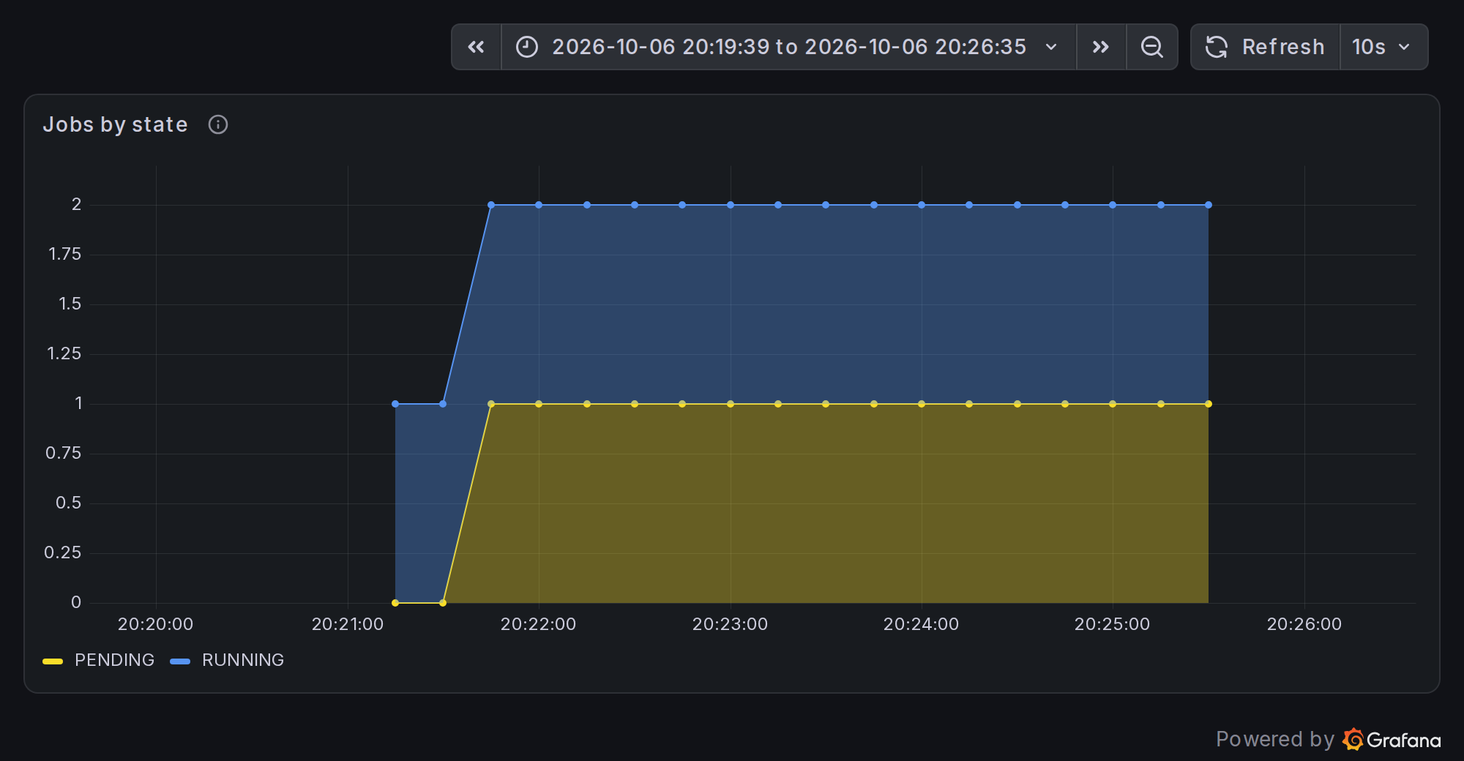
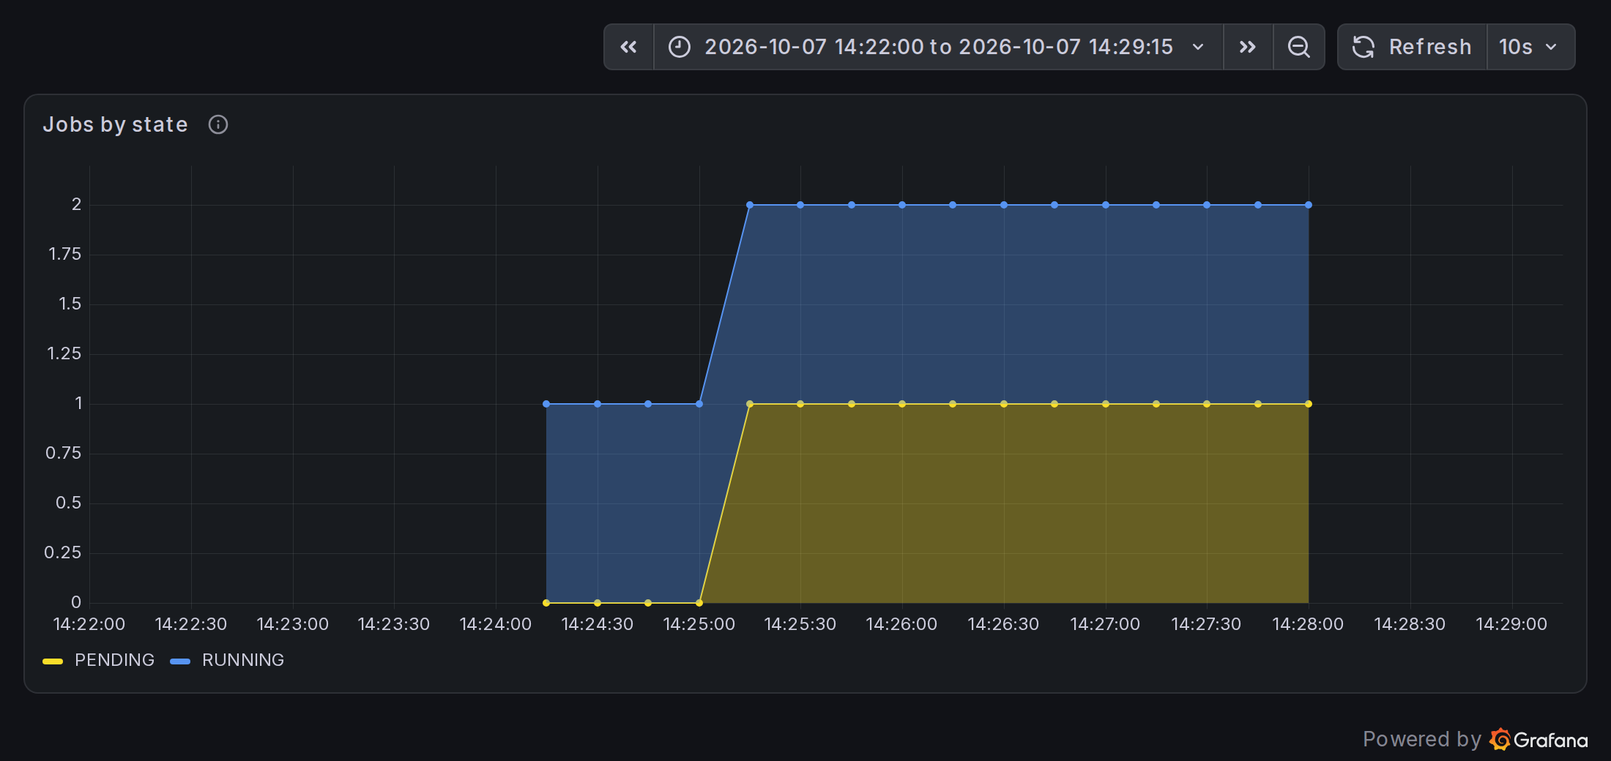
AI lab Parts 1, 2, 4, 5, 6: recaptured with per-precision GEMM rates
The lab now times GEMMs at NVIDIA's dense rate per precision (ai-lab
680c432). The DDP example's step is dominated by NCCL, so the figures
move only slightly:
- Part 1: timing sentence matches the README; split run 2:39 vs 1:19
- Part 2: DDP job, sacct, nvidia-smi, PromQL and both screenshots
  from one run (60,000 steps in 4:22)
- Part 4: GPU sensors during that run
- Part 5: one partition vs split (4.2 vs 9.5 ms/step), traffic
  figures and the NVLink vs InfiniBand panel
- Part 6: recaptured in Slurm mode: drain instead of cordon, Slurm's
  not-responding state, GPUs total from the partition, epilog reset
  dropping temperature to idle

diff --git a/content/ai-lab/06-observability/index.md b/content/ai-lab/06-observability/index.md
@@ -19,7 +19,7 @@ local_image = "ai-lab/06-observability/card.png"
 
 ## Overview
 
-The earlier parts each peeked at a metric or two. This one is about monitoring as a whole: which layers of a GPU cluster need watching, what each layer's signals mean, and how to read the lab's Grafana dashboards. The screenshots come from one scripted 10-minute run on the lab in Kubernetes mode. The dashboards are identical in Slurm mode.
+The earlier parts each peeked at a metric or two. This one is about monitoring as a whole: which layers of a GPU cluster need watching, what each layer's signals mean, and how to read the lab's Grafana dashboards. The screenshots come from one scripted 11-minute run on the lab in Slurm mode. The dashboards are identical in Kubernetes mode.
 
 {% <admonition type="note" title="The numbers are simulated"> %}
 The GPU utilisation, power and temperature in this post are modelled, and the NVLink and InfiniBand bytes are counted, not sent. The values follow the load, which is enough to build dashboards, alerts and runbooks on, but they say nothing about how a real GB200 performs.
@@ -52,7 +52,6 @@ gpu	sched-worker1:9835	up
 gpu	sched-worker2:9835	up
 juicefs	sched-control:9567	up
 …
-kube-state-metrics	sched-control:30808	up
 node	sched-control:9100	up
 …
 nvlink	sched-nvswitch:9372	up
@@ -60,6 +59,7 @@ prometheus	localhost:9090	up
 redfish	sched-nvswitch-bmc	up
 redfish	sched-worker1-bmc	up
 redfish	sched-worker2-bmc	up
+slurm	localhost:9092	up
 ```
 
 Slurm and Kubernetes export completely different metrics, so recording rules turn either one into the same handful of series: `sched_gpus`, `sched_gpus_alloc`, `sched_node_gpus_alloc`, `sched_user_gpus`, `sched_jobs{state}` and `sched_nodes{state}`. The dashboards use only those, which is why they work with either scheduler.
@@ -72,25 +72,26 @@ The out-of-band layer polls the BMCs, not the trays, through a generic Redfish e
 
 All the screenshots show the same window, in Grafana's local time:
 
-- **22:10:24** idle (the tail at the very left edge of some panels is the end of an earlier test job)
-- **22:11:24** 8-GPU PyTorch DDP job submitted (2 pods × 4 GPUs, 60,000 steps)
-- **22:12:24** `nvl8-hello` (8 GPUs) submitted; Kueue queues it, since no GPUs are free
-- **22:13:25** NVSwitch_0 port 19 disabled through the switch BMC (`sched-worker1` GPU 2, link 2)
-- **22:14:25** port re-enabled
-- **22:15:54** DDP finishes on both trays; `nvl8-hello` runs for a few seconds
-- **22:17:00** `sched-worker2` cordoned, then powered off through its BMC (`ForceOff`)
-- **22:19:01** powered on through its BMC; Ready and uncordoned at 22:19:07
-- **22:20:37** idle again
+- **14:22:27** idle (the tail at the very left edge of some panels is the end of an earlier test job)
+- **14:23:27** 8-GPU PyTorch DDP job submitted (2 nodes × 4 GPUs, 60,000 steps)
+- **14:24:27** `nvl8-hello` (8 GPUs) submitted; Slurm queues it, since no GPUs are free
+- **14:25:28** NVSwitch_0 port 19 disabled through the switch BMC (`sched-worker1` GPU 2, link 2)
+- **14:26:28** port re-enabled
+- **14:27:50** DDP finishes on both trays; `nvl8-hello` runs for a second
+- **14:28:50** `sched-worker2` drained
+- **14:29:20** `sched-worker2` powered off through its BMC (`ForceOff`)
+- **14:31:21** powered on through its BMC, and resumed in Slurm at 14:31:24
+- **14:33:00** idle again
 
 ## Reading the GPU layer
 
 {{< figure src="lab-overview.png" caption="Lab overview dashboard during the scenario" />}}
 
-**GPU utilisation** is the share of time a kernel was running on the GPU. It isn't a measure of how efficiently the GPU was used. All eight lines jump from 0 to 88-89 % together, stay flat, and drop together when the job ends. That's what healthy data-parallel training looks like: every rank does the same work at the same pace. A line or a group of lines sagging below the pack points to a **straggler**: a slow GPU, a degraded link, or a tray with CPU-side contention. On real hardware NCCL's collectives make every rank wait for the slowest one, so a straggler drags the whole job down while its own GPU looks the least busy. So compare GPUs against each other, not only against a threshold.
+**GPU utilisation** is the share of time a kernel was running on the GPU. It isn't a measure of how efficiently the GPU was used. All eight lines jump from 0 to 86-88 % together, stay flat, and drop together when the job ends. That's what healthy data-parallel training looks like: every rank does the same work at the same pace. A line or a group of lines sagging below the pack points to a **straggler**: a slow GPU, a degraded link, or a tray with CPU-side contention. On real hardware NCCL's collectives make every rank wait for the slowest one, so a straggler drags the whole job down while its own GPU looks the least busy. So compare GPUs against each other, not only against a threshold.
 
-**GPU power** follows utilisation, from about 140 W at idle to 890-910 W per GPU under load. **NVL8 domain power** is the sum: 1.12 kW idle, about 7.2 kW with all eight GPUs working, and 0.56 kW while `sched-worker2` is powered off, because a tray that's off draws nothing. Domain power is the number facilities and capacity planning care about.
+**GPU power** follows utilisation, from about 140 W at idle to 870-900 W per GPU under load. **NVL8 domain power** is the sum: 1.12 kW idle, about 7.1 kW with all eight GPUs working, and 0.56 kW while `sched-worker2` is powered off, because a tray that's off draws nothing. Domain power is the number facilities and capacity planning care about.
 
-**GPU temperature** moves on its own, slower clock: power steps up within one scrape, temperature climbs over about a minute to 70 °C and cools gradually after the job ends. That thermal lag is why a temperature alert needs a `for:` duration, and why a GPU that's hot *right after* a job isn't a problem.
+**GPU temperature** moves on its own, slower clock: power steps up within one scrape, temperature climbs over about a minute to 70 °C. After the job it drops straight back to idle, because Slurm's epilog resets the GPUs ([Part 8](@/ai-lab/08-gpu-handover/index.md)); without a reset, as in Kubernetes mode ([Part 3](@/ai-lab/03-kubernetes/index.md)), it cools over about a minute. That thermal lag is why a temperature alert needs a `for:` duration, and why a GPU that's hot *right after* a job isn't a problem.
 
 **GPU memory used** jumps to about 7 GiB per GPU when the model and optimizer state are allocated, then stays flat: DDP keeps a full copy of the model on every GPU. A line that keeps climbing during training is a leak, and a line close to the 185 GiB capacity is an out-of-memory crash waiting to happen. **Processes on GPUs** shows 4 per tray, one `torchrun` worker per GPU, and drops to 0 when the job ends. Memory or processes that outlive the job mean a leftover process is holding the GPU, and the next job to land there will start with less than it asked for.
 
@@ -100,15 +101,14 @@ The bottom of the same dashboard puts the BMC's view next to the tray's own:
 
 {{< figure src="panel-tray-power-state.png" caption="Tray power state panel: BMCs vs GPU exporters" />}}
 
-Each row is a state timeline: green when the series is 1, red when it's 0. When `sched-worker2` was powered off at 22:17:00, the signals changed in this order:
+Each row is a state timeline: green when the series is 1, red when it's 0. When `sched-worker2` was powered off at 14:29:20, the signals changed in this order:
 
-- **22:17:04** `up{job="gpu"}` for `sched-worker2` drops to 0: the GPU exporter on the tray is scraped every 5 s.
-- **22:17:21** `idrac_system_power_on` for `sched-worker2` drops to 0: the BMC is polled every 30 s.
-- **22:17:59** the node turns `NotReady` in Kubernetes: the node controller waits for missed heartbeats.
-- **22:19:01** powered on.
-- **22:19:04** the GPU exporter is up.
-- **22:19:14** the node is Ready.
-- **22:19:21** the BMC reports power on, at its next 30 s poll.
+- **14:29:24** `up{job="gpu"}` for `sched-worker2` drops to 0: the GPU exporter on the tray is scraped every 5 s.
+- **14:29:51** `idrac_system_power_on` for `sched-worker2` drops to 0: the BMC is polled every 30 s.
+- **14:30:10** Slurm marks the node as not responding: `sinfo` shows `drained*`, where the `*` means the controller can't reach the node's `slurmd`.
+- **14:31:21** powered on.
+- **14:31:24** the GPU exporter is up, and `slurmd` registers again. The node stays drained until it's resumed.
+- **14:31:51** the BMC reports power on, at its next 30 s poll.
 
 The `sched-worker2 BMC` row stays green the whole time: the BMC kept answering while the tray it manages was off. Three cases that look the same from the GPU exporter alone can now be told apart:
 
@@ -128,7 +128,7 @@ The lab's BMCs read the GPUs' state the way a real BMC reads them over its sideb
 
 The top row compares supply with demand. The sparklines under **GPUs allocated**, **Running jobs** and **Pending jobs** show the history behind the current value of 0: allocation stays at 8 while the DDP job runs, and *Pending jobs* rises while `nvl8-hello` waits. Allocated close to total with jobs pending means the cluster is full, which is a capacity signal. Allocated below total with jobs pending means the jobs don't fit, either because of topology or quotas ([Part 3](@/ai-lab/03-kubernetes/index.md#operations)) or because a node is out.
 
-**GPUs total** is easy to misread. It stayed at 8 while `sched-worker2` was off: Kubernetes keeps reporting a NotReady node's allocatable GPUs, so the capacity series only dipped to 4 for a moment as the tray came back (22:19:19-22:19:34). Read *GPUs total* together with **Nodes by state**, where the NOT_READY band (22:18:00-22:19:15) shows the tray was gone.
+**GPUs total** is easy to misread. It stayed at 8 while `sched-worker2` was drained and powered off, because it counts the GPUs configured in the Slurm partition, whatever state their nodes are in. Read *GPUs total* together with **Nodes by state**, which uses Slurm's state names: `sched-worker2` moves from `idle` to `drain` (14:29:34) and to `drain*` (14:30:34-14:32:04) while the tray is off. The Slurm exporter is scraped every 30 s, so these times trail the ones from `sinfo` above.
 
 **GPUs allocated per node**, **Jobs by state** and **Nodes by state** are stacked: each series is drawn on top of the previous one, so the top edge is the total and each band is one series' share. *GPUs allocated per node* reaches 8 as two bands of 4, and the top line isn't `sched-worker2` holding 8 GPUs. *Jobs by state* leaves out completed jobs, whose ever-growing count would flatten everything else: the DDP job runs (blue), and `nvl8-hello` sits underneath as pending (yellow) until the DDP job is done. Check whether a panel is stacked before you read a value off it.
 
@@ -140,7 +140,7 @@ The **NVLink fabric** row turns Part 4's experiment into graphs. While the switc
 
 Utilisation didn't move when the link went down. In the lab, the emulated NCCL doesn't slow a rank down for a lost link; it only slows down when traffic has to cross NVLink partitions ([Part 5](@/ai-lab/05-nvlink/index.md)). On real hardware it may, and a rank missing 1 of 18 links is exactly the kind of fault you only catch by watching the fabric layer.
 
-**NVLink TX per GPU** shows the all-reduce traffic: about 445 GB/s per GPU, the same on both trays. **NVSwitch throughput** shows the same traffic from the switch side, about 1.77-1.79 TB/s per chip. **GPUs per NVLink partition** stays at 8 in the default partition; a split like the one in Part 5 would show up there as two lines.
+**NVLink TX per GPU** shows the all-reduce traffic: about 450 GB/s per GPU, the same on both trays. **NVSwitch throughput** shows the same traffic from the switch side, about 1.79-1.80 TB/s per chip. **GPUs per NVLink partition** stays at 8 in the default partition; a split like the one in Part 5 would show up there as two lines.
 
 The **InfiniBand** row at the bottom shows NCCL traffic that has to leave NVLink: **InfiniBand TX per tray**, and **NVLink vs InfiniBand** for the whole domain. In this run all eight GPUs are in one partition, so InfiniBand stays at 0 and all the traffic is on NVLink. A job split across NVLink partitions would move part of it to InfiniBand ([Part 5](@/ai-lab/05-nvlink/index.md)).
 

diff --git a/content/ai-lab/05-nvlink/index.md b/content/ai-lab/05-nvlink/index.md
@@ -216,9 +216,9 @@ Each block is named after the cluster UUID and clique it was built from. In Kube
 You might expect `nvl8-hello` (2 nodes × 4 GPUs) to wait now. It doesn't:
 
 ```console
-$ sbatch --wait nvl8-hello.sbatch && cat nvl8-hello-7.out
-Submitted batch job 7
-job 7 on sched-worker[1-2]: 8 tasks
+$ sbatch --wait nvl8-hello.sbatch && cat nvl8-hello-15.out
+Submitted batch job 15
+job 15 on sched-worker[1-2]: 8 tasks
 0: rank 0 on sched-worker1 CUDA_VISIBLE_DEVICES=0: NVIDIA GB200, GPU-81501924-f170-f6d0-f2da-dc7595876881, 1, scratch  198G
 …
 4: rank 4 on sched-worker2 CUDA_VISIBLE_DEVICES=0: NVIDIA GB200, GPU-81477906-d580-de42-e868-ff62e9ef4317, 7, scratch  198G
@@ -230,20 +230,20 @@ Ranks 0-3 are in clique 1 and ranks 4-7 in clique 7. Slurm's `topology/block` *p
 The job runs, but it's slower. The two halves can't reach each other over NVLink, so NCCL sends the traffic between them over InfiniBand, which is much slower: each GPU has a 400 Gb/s (50 GB/s) InfiniBand link, against hundreds of GB/s over NVLink. The lab's emulated NCCL does the same: inside each partition it uses NVLink, and between partitions it uses InfiniBand. Here is the same DDP job, 16,000 steps, first on one partition, then split across two:
 
 ```console
-$ grep -E "^step +(10|50|16000) |rank 0/" ddp-train-6.out
-step   10      4.3 ms    119665 samples/s      48 TFLOP/s/GPU
-step   50      4.1 ms    125795 samples/s      51 TFLOP/s/GPU
-step 16000      4.4 ms    115490 samples/s      47 TFLOP/s/GPU
+$ grep -E "^step +(10|50|16000) |rank 0/" ddp-train-13.out
+step   10      4.4 ms    116271 samples/s      47 TFLOP/s/GPU
+step   50      4.1 ms    124550 samples/s      50 TFLOP/s/GPU
+step 16000      4.2 ms    122161 samples/s      49 TFLOP/s/GPU
 rank 0/8 on sched-worker1 cuda:0 (NVIDIA GB200) peak mem 7.1 GiB
 
-$ grep -E "^step +(10|50|16000) |rank 0/" ddp-train-8.out
-step   10      9.8 ms     52224 samples/s      21 TFLOP/s/GPU
-step   50      9.3 ms     55250 samples/s      22 TFLOP/s/GPU
-step 16000      9.8 ms     52000 samples/s      21 TFLOP/s/GPU
+$ grep -E "^step +(10|50|16000) |rank 0/" ddp-train-17.out
+step   10      9.5 ms     53919 samples/s      22 TFLOP/s/GPU
+step   50      9.2 ms     55357 samples/s      22 TFLOP/s/GPU
+step 16000      9.5 ms     54175 samples/s      22 TFLOP/s/GPU
 rank 0/8 on sched-worker1 cuda:0 (NVIDIA GB200) peak mem 7.1 GiB
 ```
 
-Steps take more than twice as long, and the whole job took 2:39 instead of 1:17. During the split run, Prometheus showed the traffic moving to InfiniBand:
+Steps take more than twice as long, and the whole job took 2:39 instead of 1:19. During the split run, Prometheus showed the traffic moving to InfiniBand:
 
 ```
 # InfiniBand traffic from each tray
@@ -252,12 +252,12 @@ sum by (instance) (rate(node_infiniband_port_data_transmitted_bytes_total[1m]))
 
 # NVLink traffic for the whole domain
 sum(rate(nvlink_gpu_tx_bytes_total[1m]))
-~1.36 TB/s (3.52 TB/s on one partition)
+~1.39 TB/s (3.54 TB/s on one partition)
 ```
 
 The "NVLink vs InfiniBand" panel of the Scheduler & NVLink fabric dashboard shows the same shift. I ran the job again with 30,000 steps, first on one partition, then split:
 
-{{< figure src="panel-nvlink-vs-ib.png" alt="Grafana panel: NVLink traffic at about 3.5 TB/s and no InfiniBand traffic during the first run; during the second run NVLink falls to about 1.4 TB/s and InfiniBand rises to about 240 GB/s" caption="NVLink vs InfiniBand panel: the same DDP job on one partition, then split across two" />}}
+{{< figure src="panel-nvlink-vs-ib.png" alt="Grafana panel: NVLink traffic at about 3.7 TB/s and no InfiniBand traffic during the first run; during the second run NVLink falls to about 1.4 TB/s and InfiniBand rises to about 240 GB/s" caption="NVLink vs InfiniBand panel: the same DDP job on one partition, then split across two" />}}
 
 During the first run, all the traffic goes over NVLink. During the split run, NVLink traffic drops to well under half, and InfiniBand carries the traffic between the trays: about 240 GB/s for the domain, 120 GB/s from each tray. The split run also lasts more than twice as long.
 
@@ -305,11 +305,11 @@ With the 8-GPU DDP job from [Part 2](@/ai-lab/02-slurm/index.md) running on one 
 ```
 # NVLink traffic from each tray
 sum by (host) (rate(nvlink_gpu_tx_bytes_total[1m]))
-~1.76 TB/s per tray
+~1.8 TB/s per tray
 
 # traffic per NVSwitch chip (each GPU spreads its links over both)
 rate(nvswitch_tx_bytes_total[1m])
-~1.76 TB/s per chip
+~1.8 TB/s per chip
 
 # switch ports down
 sum(nvswitch_ports) - sum(nvswitch_ports_up)

diff --git a/content/ai-lab/02-slurm/index.md b/content/ai-lab/02-slurm/index.md
@@ -182,12 +182,12 @@ DDP (distributed data parallel) is the most common way to train on several GPUs:
 
 ```console
 $ sbatch ddp-train.sbatch --steps 60000
-Submitted batch job 2
+Submitted batch job 11
 
-$ grep -E "^step +(10|50|60000) |rank 0/" ddp-train-2.out
-step   10      4.2 ms    120783 samples/s      49 TFLOP/s/GPU
-step   50      4.4 ms    115140 samples/s      46 TFLOP/s/GPU
-step 60000      4.4 ms    115881 samples/s      47 TFLOP/s/GPU
+$ grep -E "^step +(10|50|60000) |rank 0/" ddp-train-11.out
+step   10      4.7 ms    108994 samples/s      44 TFLOP/s/GPU
+step   50      4.1 ms    125887 samples/s      51 TFLOP/s/GPU
+step 60000      4.3 ms    119404 samples/s      48 TFLOP/s/GPU
 rank 0/8 on sched-worker1 cuda:0 (NVIDIA GB200) peak mem 7.1 GiB
 ```
 
@@ -203,8 +203,8 @@ Every job is recorded with its GPU allocation:
 
 ```console
 $ sacct -X -o JobID,JobName,User,Account,AllocTRES%45,Elapsed,State
-2             ddp-train       joe        lab  billing=8,cpu=8,gres/gpu=8,mem=15000M,node=2   00:04:41  COMPLETED
-3            nvl8-hello       joe        lab  billing=8,cpu=8,gres/gpu=8,mem=15000M,node=2   00:00:01  COMPLETED
+11            ddp-train       joe        lab  billing=8,cpu=8,gres/gpu=8,mem=15000M,node=2   00:04:22  COMPLETED
+12           nvl8-hello       joe        lab  billing=8,cpu=8,gres/gpu=8,mem=15000M,node=2   00:00:01  COMPLETED
 ```
 
 The job IDs differ from the ones above because the listings come from separate runs of the lab. GPU-hour reports and chargeback are built on this data.
@@ -265,13 +265,13 @@ Slurm knows which GPUs a job holds, but not whether the job is using them. While
 ```console
 $ bin/ssh sched-worker1 nvidia-smi --query-gpu=index,utilization.gpu,memory.used,power.draw,temperature.gpu --format=csv
 index, utilization.gpu [%], memory.used [MiB], power.draw [W], temperature.gpu
-0, 79 %, 7850 MiB, 813.26 W, 67
-1, 81 %, 7850 MiB, 850.17 W, 68
+0, 86 %, 7850 MiB, 863.87 W, 70
+1, 86 %, 7850 MiB, 871.89 W, 69
 …
 
 $ bin/ssh sched-worker1 nvidia-smi --query-compute-apps=pid,process_name,used_memory --format=csv
 pid, process_name, used_memory [MiB]
-10404, /shared/venv/bin/python, 7338 MiB
+4375, /shared/venv/bin/python, 7338 MiB
 …
 ```
 
@@ -294,13 +294,13 @@ sched_user_gpus
 sched_jobs
 RUNNING 1, PENDING 1
 
-# GPU utilisation per tray (4 GPUs × ~80 %)
+# GPU utilisation per tray (4 GPUs × ~86 %)
 sum by (instance) (nvidia_smi_utilization_gpu_ratio)
-3.32, 3.38
+3.45, 3.48
 
 # all-reduce traffic over NVLink
 sum(rate(nvlink_gpu_tx_bytes_total[1m]))
-~3.4 TB/s
+~3.6 TB/s
 ```
 
 ### Lab overview dashboard
@@ -309,14 +309,14 @@ Open Grafana (`http://10.107.111.10:3000`) and the **Lab overview** dashboard:
 
 {{< figure src="lab-overview.png" alt="Lab overview dashboard: GPU utilisation, memory, power, temperature and processes rising together while the DDP job runs" caption="Lab overview dashboard during the DDP run" />}}
 
-The screenshot comes from a separate run, so its values differ a little from the samples above. All eight GPUs move together:
+All eight GPUs move together:
 
-- **GPU utilisation** jumps to about 87 % when the job starts and drops to 0 when it ends.
+- **GPU utilisation** jumps to about 86-88 % when the job starts and drops to 0 when it ends.
 - **GPU memory used** goes to about 7 GiB per GPU and stays there until the job ends.
-- **GPU power** goes from about 140 W to 870-900 W per GPU.
+- **GPU power** goes from about 140 W to 860-900 W per GPU.
 - **GPU temperature** climbs to 69-70 °C over about a minute. When the job ends, it drops straight back to idle: the epilog resets the job's GPUs ([Part 8](@/ai-lab/08-gpu-handover/index.md)).
 - **Processes on GPUs** shows 4 per tray, one per GPU.
-- **NVL8 domain power** is the total for all eight GPUs: about 7 kW.
+- **NVL8 domain power** is the total for all eight GPUs: about 7.1 kW.
 
 The panels at the bottom come from the BMCs; [Part 6](@/ai-lab/06-observability/index.md) covers them.
 

diff --git a/content/ai-lab/01-intro/index.md b/content/ai-lab/01-intro/index.md
@@ -96,7 +96,7 @@ The hardware and NVIDIA's software are modelled:
 - **The BMCs** follow the GB200 Redfish layout, with power actions that really stop and start the tray, GPU sensors and firmware inventory. IPMI and BlueField DPUs aren't modelled.
 - **InfiniBand** has a topology that tools like topograph can discover, byte counters on the network cards, and its 400 Gb/s link rate in NCCL timing. No packets are sent.
 
-Timing is a behavioural model, not a prediction. Each operation's duration is derived from NVIDIA's published GB200 figures (compute rate, memory, NVLink and InfiniBand bandwidth) and applied to its size. The figures are simplified: one tensor rate covers all low-precision types, and some rates are estimated. Jobs take a plausible time and put a plausible load on the GPUs and links, but the figures aren't calibrated against hardware and don't predict real GB200 performance. The full list is under "What is real and what is modelled" in the lab's [README](https://github.com/arkady-emelyanov/ai-lab).
+Timing is a behavioural model, not a prediction. Durations come from NVIDIA's published GB200 figures (dense compute rates per precision, memory, NVLink and InfiniBand bandwidth) applied to each operation's size. NVIDIA doesn't publish an FP32 rate without tensor cores, so that one is an estimate. Jobs take a plausible time and put a plausible load on the GPUs and links, but the figures aren't calibrated against hardware and don't predict real GB200 performance. The full list is under "What is real and what is modelled" in the lab's [README](https://github.com/arkady-emelyanov/ai-lab).
 
 `nvidia-smi topo -m` shows how the GPUs in one tray are connected to each other. Here it runs on the first GPU tray, `sched-worker1`:
 
@@ -125,10 +125,10 @@ A change travels through the whole stack the way it would on a real cluster. Thi
 2. After a GPU reset, NVML reports the new clique (`nvidia-smi --query-gpu=fabric.cliqueId`).
 3. Within a minute, topograph rewrites Slurm's topology: one block per tray instead of one for both. With Kubernetes, it relabels the nodes instead.
 4. Slurm prefers to keep a job inside one block. An 8-GPU job no longer fits in one, so it spans both.
-5. The emulated NCCL sends the traffic between the two halves over InfiniBand instead of NVLink, and the same training job takes 2:39 instead of 1:17.
-6. Prometheus shows the shift: InfiniBand traffic rises to about 120 GB/s per tray (240 GB/s for the domain), and NVLink traffic falls from 3.52 to 1.36 TB/s.
+5. The emulated NCCL sends the traffic between the two halves over InfiniBand instead of NVLink, and the same training job takes 2:39 instead of 1:19.
+6. Prometheus shows the shift: InfiniBand traffic rises to about 120 GB/s per tray (240 GB/s for the domain), and NVLink traffic falls from 3.54 to 1.39 TB/s.
 
-{{< figure src="/ai-lab/05-nvlink/panel-nvlink-vs-ib.png" alt="Grafana panel: NVLink traffic at about 3.5 TB/s and no InfiniBand traffic during the first run; during the second run NVLink falls to about 1.4 TB/s and InfiniBand rises to about 240 GB/s" caption="NVLink vs InfiniBand traffic: the same DDP job on one partition, then split across two" />}}
+{{< figure src="/ai-lab/05-nvlink/panel-nvlink-vs-ib.png" alt="Grafana panel: NVLink traffic at about 3.7 TB/s and no InfiniBand traffic during the first run; during the second run NVLink falls to about 1.4 TB/s and InfiniBand rises to about 240 GB/s" caption="NVLink vs InfiniBand traffic: the same DDP job on one partition, then split across two" />}}
 
 The times come from the timing model, so what matters is the chain of effects and their direction, not the exact numbers.
 

diff --git a/content/ai-lab/04-bmc-redfish/index.md b/content/ai-lab/04-bmc-redfish/index.md
@@ -149,17 +149,17 @@ $ bin/redfish sched-worker1 /redfish/v1/Chassis/HGX_GPU_0/Sensors | jq -r '.Memb
 
 $ bin/redfish sched-worker1 /redfish/v1/Chassis/HGX_GPU_0/EnvironmentMetrics \
     | jq -c '{Temp: .TemperatureCelsius.Reading, Power: .PowerWatts.Reading}'
-{"Temp":69,"Power":870.639}
+{"Temp":70,"Power":877.525}
 
 $ bin/ssh sched-worker1 nvidia-smi -i 0 --query-gpu=temperature.gpu,power.draw --format=csv
 temperature.gpu, power.draw [W]
-69, 892.33 W
+69, 872.87 W
 
 $ bin/redfish sched-worker1 /redfish/v1/Chassis/Chassis_0/Sensors/Total_GPU_Power_0 | jq -c '{Reading, ReadingUnits}'
-{"Reading":3541.377,"ReadingUnits":"W"}
+{"Reading":3512.52,"ReadingUnits":"W"}
 ```
 
-The temperatures match. The power differs by about 20 W because the two commands ran a moment apart, and a busy GPU's power changes from second to second. `Total_GPU_Power_0` is the sum for all four GPUs.
+The readings differ by 1 °C and about 5 W because the two commands ran a moment apart, and a busy GPU's temperature and power change from second to second. `Total_GPU_Power_0` is the sum for all four GPUs.
 
 Prometheus collects these sensors too, through a Redfish exporter. [Part 6](@/ai-lab/06-observability/index.md) shows them during a power cycle.
 
